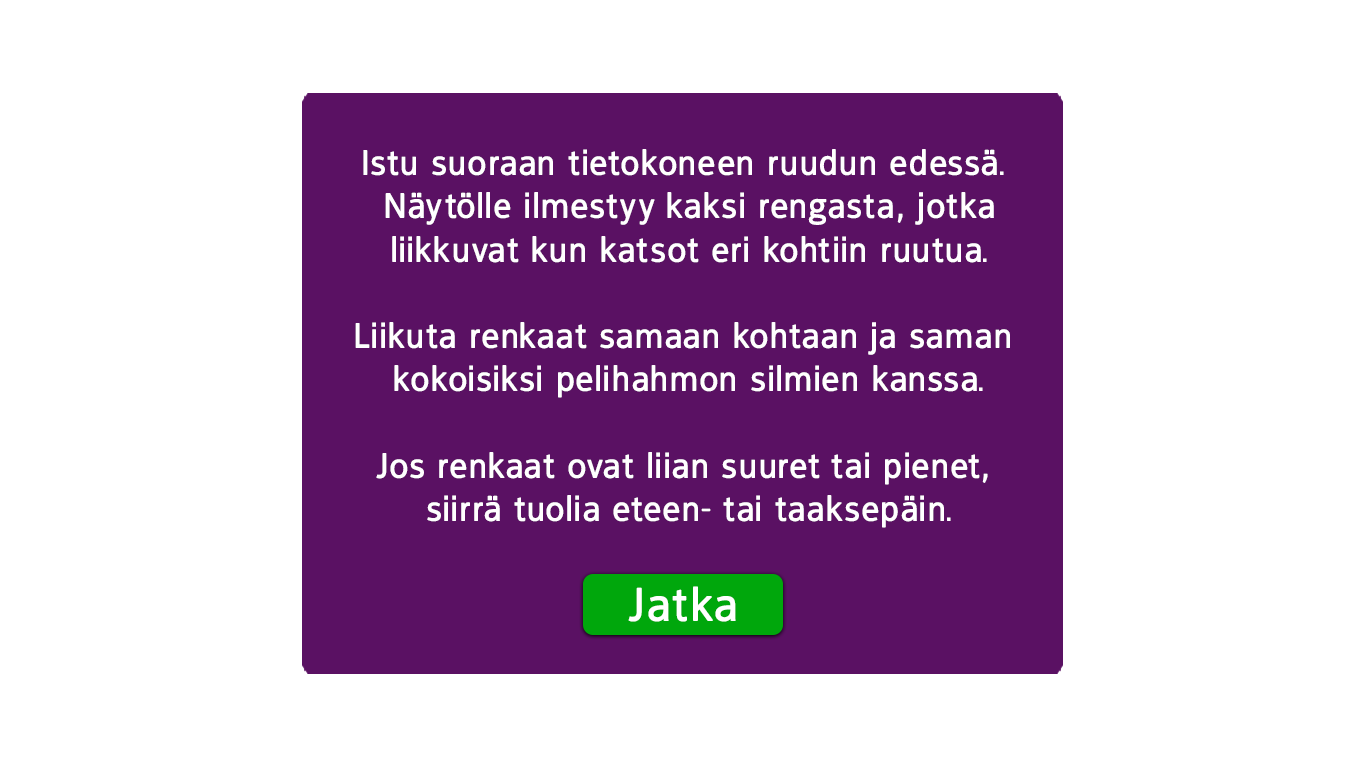
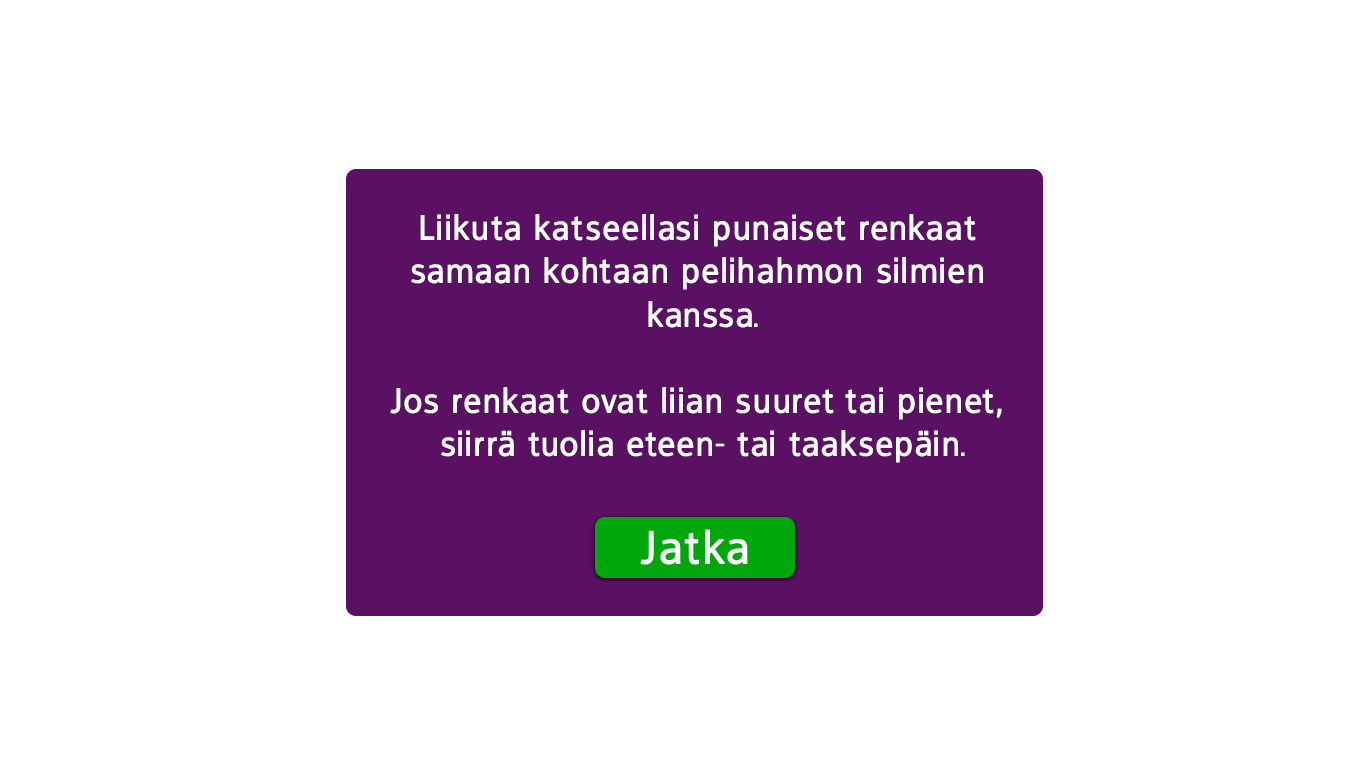
updated instructions, minor fixes

Changed region(s): [[0.2152, 0.0938, 0.7994, 0.875]]

diff --git a/game1/src/FireflyAndPoints.cpp b/game1/src/FireflyAndPoints.cpp
@@ -16,12 +16,12 @@
 //---------------------------------------------------------------------------
 using namespace FireflyAndPoints;
 
-//static bool sIsDebug = true;
-//static TStringList* sLog = new TStringList();
-void d(String s) { /*if (sIsDebug) sLog->Add(s);*/ }
+static bool sIsDebug = true;
+static TStringList* sLog = new TStringList();
+void d(String s) { if (sIsDebug) sLog->Add(s); }
 void ShowLog() {
-/*
 	TForm* f = new TForm((TComponent*)NULL);
+	f->FormStyle = fsStayOnTop;
 	TMemo* m = new TMemo(f);
 	m->Align = alClient;
 	m->ScrollBars = ssVertical;
@@ -29,8 +29,6 @@ void ShowLog() {
 	m->Lines->AddStrings(sLog);
 	f->ShowModal();
 	delete f;
-	sLog->Clear();
-*/
 }
 
 //---------------------------------------------------------------------------
@@ -40,6 +38,9 @@ static ULONG_PTR m_gdiplusToken = NULL;
 //---------------------------------------------------------------------------
 const int KEyeBoxWidth = 160;
 const int KEyeBoxHeight = 120;
+
+const int KCalibInstructionWidth = 750;
+const int KCalibInstructionHeight = 250;
 
 const int KMaxAllowedCalibQualityOffset = 40;
 const double KMinAllowedCalibQualityValue = 0.1;
@@ -578,11 +579,11 @@ void __fastcall TiFireflyAndPoints::ReportPointAcceptance()
 		TiCalibQualityEstimator::TiPointD pt = iCalibQualityEstimator->Point;
 		double dx = pt.X - iCalibPoints->Current->X;
 		double dy = pt.Y - iCalibPoints->Current->Y;
-		double distance;
+		double distance = 9999999;
 		try {
 			distance = sqrt(dx * dx + dy * dy);
 		} catch (...) {
-			MessageBox(NULL, "Oops1", "KC", MB_OK);
+			//MessageBox(NULL, "Oops1", "KC", MB_OK);
 		}
 		FOnEvent(this, String().sprintf("verification point\t%d %d\t%d %d\t%.2f",
 			iCalibPoints->Current->X, iCalibPoints->Current->Y, int(pt.X), int(pt.Y), distance ));
@@ -836,8 +837,8 @@ void __fastcall TiFireflyAndPoints::FormCreate(TObject *Sender)
 	iEyeBox->Background->OnFadingTransition = onEyeBoxFadingTransition;
 
 	iCalibrationInstruction = new TiAnimation(false);
-	iCalibrationInstruction->addFrames(IDR_CALIB_INSTRUCTION_FIREFLY, 950, 170);
-	iCalibrationInstruction->addFrames(IDR_CALIB_INSTRUCTION_CIRCLE, 950, 170);
+	iCalibrationInstruction->addFrames(IDR_CALIB_INSTRUCTION_FIREFLY, KCalibInstructionWidth, KCalibInstructionHeight);
+	iCalibrationInstruction->addFrames(IDR_CALIB_INSTRUCTION_CIRCLE, KCalibInstructionWidth, KCalibInstructionHeight);
 	iCalibrationInstruction->placeTo(Width / 2, Height / 2);
 	iCalibrationInstruction->OnFadingFinished = onCalibInstructionFadingFisnihed;
 	iObjects->add(iCalibrationInstruction);

diff --git a/controller/src/PreInstruction.cpp b/controller/src/PreInstruction.cpp
@@ -1,10 +1,14 @@
 //---------------------------------------------------------------------------
 #include "PreInstruction.h"
-#include "assets.h"
+#include "assets_ctrl.h"
 
 //---------------------------------------------------------------------------
 #pragma package(smart_init)
 #pragma resource "*.dfm"
+
+//---------------------------------------------------------------------------
+const int KInstructionWidth = 600;
+const int KInstructionHeight = 170;
 
 //---------------------------------------------------------------------------
 __fastcall TfrmPreInstruction::TfrmPreInstruction(TComponent* aOwner) :
@@ -23,7 +27,14 @@ TfrmPreInstruction::EiInstruction __fastcall TfrmPreInstruction::GetInstruction(
 //---------------------------------------------------------------------------
 void __fastcall TfrmPreInstruction::SetInstruction(EiInstruction aValue)
 {
-	iInstruction->AnimationIndex = (int)aValue;
+	switch (aValue)
+	{
+		case instFinished: iInstruction->AnimationIndex = 0; break;
+		case instStandard: iInstruction->AnimationIndex = 1; break;
+		case instFirefly:	 iInstruction->AnimationIndex = 2; break;
+		case instProfiled: iInstruction->AnimationIndex = 3; break;
+	}
+
 	iHasInstruction = true;
 }
 
@@ -36,9 +47,10 @@ void __fastcall TfrmPreInstruction::FormCreate(TObject *Sender)
 	iGraphics = new Gdiplus::Graphics(Handle, false);
 
 	iInstruction = new TiAnimation(true);
-	iInstruction->addFrames(IDR_PREINSTRUCTION_START, 950, 170);
-	iInstruction->addFrames(IDR_PREINSTRUCTION_PAUSE, 950, 170);
-	iInstruction->addFrames(IDR_PREINSTRUCTION_FINISHED, 950, 170);
+	iInstruction->addFrames(IDR_PREINSTRUCTION_FINISHED, KInstructionWidth, KInstructionHeight);
+	iInstruction->addFrames(IDR_PREINSTRUCTION_CIRCLE, KInstructionWidth, KInstructionHeight);
+	iInstruction->addFrames(IDR_PREINSTRUCTION_FIREFLY, KInstructionWidth, KInstructionHeight);
+	iInstruction->addFrames(IDR_PREINSTRUCTION_PROFILED, KInstructionWidth, KInstructionHeight);
 	iInstruction->placeTo(Width / 2, Height / 2);
 }
 

diff --git a/controller/src/PreInstruction.h b/controller/src/PreInstruction.h
@@ -7,11 +7,11 @@
 #include <Controls.hpp>
 #include <StdCtrls.hpp>
 #include <Forms.hpp>
+#include <ExtCtrls.hpp>
 
 //---------------------------------------------------------------------------
 #include "Animation.h"
 #include "utils.h"
-#include <ExtCtrls.hpp>
 
 //---------------------------------------------------------------------------
 class TfrmPreInstruction : public TForm
@@ -25,9 +25,10 @@ class TfrmPreInstruction : public TForm
 	public:
 		enum EiInstruction
 		{
-			instStart = 0,
-			instPause,
-			instFinished
+			instFinished = 0,
+			instStandard = 's',
+			instFirefly = 'f',
+			instProfiled = 'p'
 		};
 
 	private:	// User declarations

diff --git a/test/KidCalibTest.cpp b/test/KidCalibTest.cpp
@@ -4,12 +4,12 @@
 
 //---------------------------------------------------------------------------
 USERES("KidCalibTest.res");
-USERC("assets/assets.rc");
 USEFORM("MainForm.cpp", frmMainForm);
-USEFORM("PreInstruction.cpp", frmPreInstruction);
-USEUNIT("Controller.cpp");
 USELIB("GdiPlus.lib");
 USELIB("..\..\XML\XML.lib");
+USERC("..\controller\assets\assets_ctrl.rc");
+USEFORM("..\controller\src\PreInstruction.cpp", frmPreInstruction);
+USEUNIT("..\controller\src\Controller.cpp");
 USEUNIT("..\common\Animation.cpp");
 USEUNIT("..\common\CalibQuality.cpp");
 USEUNIT("..\common\CalibQualityEstimator.cpp");

diff --git a/common/CalibQuality.cpp b/common/CalibQuality.cpp
@@ -68,11 +68,11 @@ TiCalibQuality::Point __fastcall TiCalibQuality::GetWorstPoint()
 		{
 			double dx = point->positionX - point->correctedPorX;
 			double dy = point->positionY - point->correctedPorY;
-			double offset;
+			double offset = 999999999;
 			try {
 				offset = sqrt(dx * dx + dy * dy);
 			} catch (...) {
-				MessageBox(NULL, "Oops1", "KC", MB_OK);
+				//MessageBox(NULL, "Oops1", "KC", MB_OK);
 			}
 
 			if (offset > result.Offset)

diff --git a/controller/src/Controller.cpp b/controller/src/Controller.cpp
@@ -136,7 +136,7 @@ void __fastcall TiController::run(String& aStudentName, int aDay)
 		while (iCurrentDaySessions)
 		{
 			if (iCurrentSessionIndex < SESSION_COUNT)
-				ShowPreInstruction(!iCurrentSessionIndex ? TfrmPreInstruction::instStart : TfrmPreInstruction::instPause);
+				ShowPreInstruction((TfrmPreInstruction::EiInstruction)iCurrentDaySessions[iCurrentSessionIndex]);
 
 			RunNextSession();
 			iCurrentSessionIndex++;

diff --git a/game2/src/PositionTracker.cpp b/game2/src/PositionTracker.cpp
@@ -86,7 +86,7 @@ bool __fastcall TiPositionTracker::isPositionWrong(SampleStruct& aSample)
 void __fastcall TiPositionTracker::ResetBuffer()
 {
 	for (int i = 0; i < KEstimatesBufferSize; i++)
-		iEstimatesBuffer[i] = false;
+		iEstimatesBuffer[i] = TiUserPositionQualityEstimator::pqOK;
 }
 
 //---------------------------------------------------------------------------

diff --git a/game2/src/InstructionSitting.cpp b/game2/src/InstructionSitting.cpp
@@ -20,7 +20,7 @@ __fastcall TiInstructionSitting::TiInstructionSitting(TiAnimationManager* aManag
 
 	iStaticAssets->add(background);
 
-	iButtonContinue = TiRect(Offset.x + 583, Offset.y + 575, 200, 60);
+	iButtonContinue = TiRect(Offset.x + 595, Offset.y + 517, 200, 60);
 }
 
 //---------------------------------------------------------------------------

diff --git a/common/CalibQualityEstimator.cpp b/common/CalibQualityEstimator.cpp
@@ -177,7 +177,8 @@ bool __fastcall TiCalibQualityEstimator::GetStandardDeviation(TiPointD& aResult,
 	try {
 		aResult = TiPointD(sqrt(x / count), sqrt(y / count));
 	} catch (...) {
-		MessageBox(NULL, "Oops2", "KC", MB_OK);
+		//MessageBox(NULL, "Oops2", "KC", MB_OK);
+		return false;
 	}
 
 	return true;

diff --git a/common/CalibQualityEstimator.h b/common/CalibQualityEstimator.h
@@ -27,7 +27,7 @@ struct TiPoint
 		try {
 			result = sqrt(X*X + Y*Y);
 		} catch (...) {
-			MessageBox(NULL, "Oops3", "KC", MB_OK);
+			//MessageBox(NULL, "Oops3", "KC", MB_OK);
 		}
 		return result;
 	}

diff --git a/controller/assets/assets_ctrl.h b/controller/assets/assets_ctrl.h
@@ -1,0 +1,5 @@
+#define IDR_PREINSTRUCTION_FINISHED			1
+#define IDR_PREINSTRUCTION_CIRCLE				2
+#define IDR_PREINSTRUCTION_FIREFLY			3
+#define IDR_PREINSTRUCTION_PROFILED			4
+
